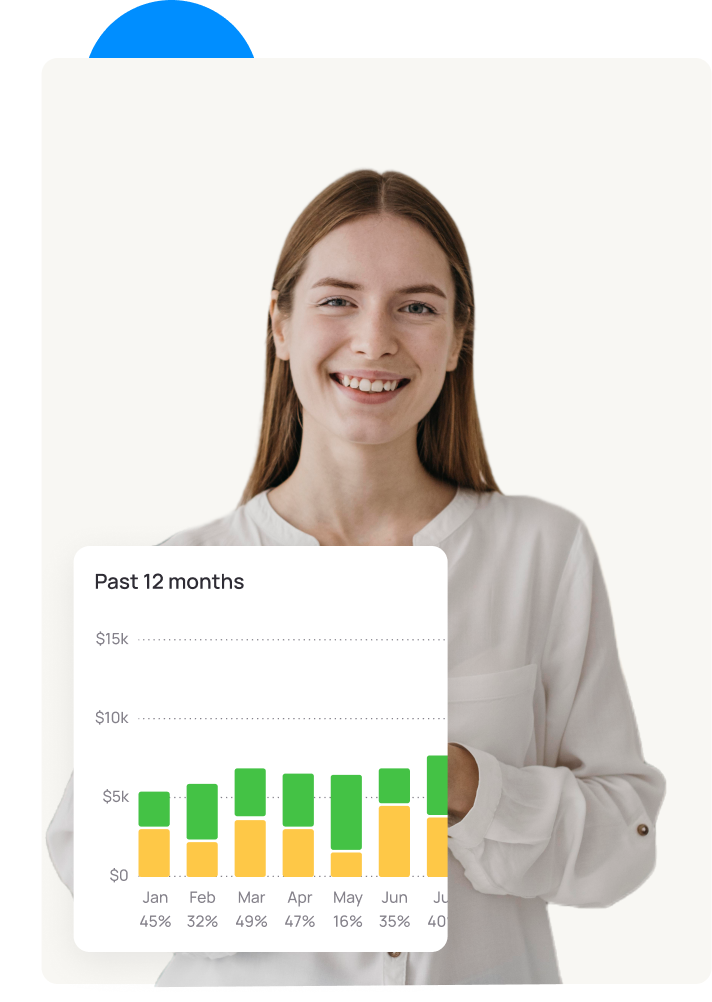
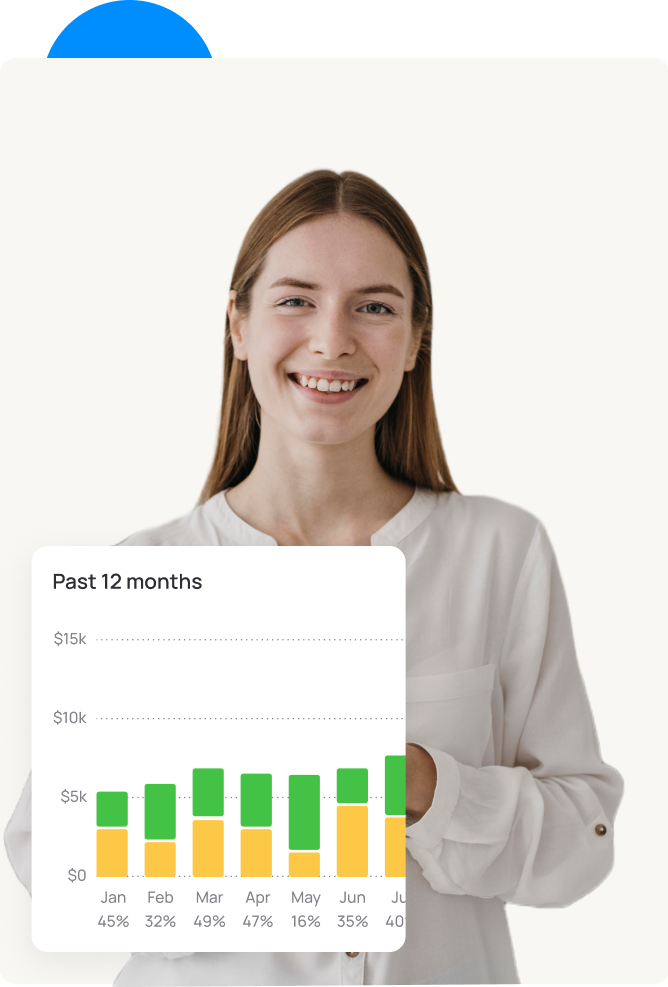
style: estiliza primeira metade

diff --git a/pages/index.html b/pages/index.html
@@ -57,7 +57,7 @@
 
         <section id="hero">
 
-            <div class="container-text">
+            <div class="container-text flex-center">
                 <div id="heading">
                     <span class="text-border">Data Analysis</span>
                 </div>
@@ -78,9 +78,12 @@
                 </div>
 
                 <div class="container-invite">
-                    <a href="#" class="btn">Get Started Free</a>
 
-                    <div class="advertising">
+                    <div class="advertising" id="started-free">
+                        <a href="#" class="btn">Get Started Free</a>
+                    </div>
+
+                    <div class="advertising" id="watch-demo">
                         <img src="../images/playIcon.svg" alt="">
                         <a href="#">Watch a Demo</a>
                     </div>
@@ -135,7 +138,7 @@
         </section>
 
         <section id="features">
-            <div class="introduction-feature">
+            <div class="introduction-feature flex-center">
                 <h2>Unique features of data analysis</h2>
                 <p>
                     Unveiling the Extraordinary Power: Delving 
@@ -214,7 +217,7 @@
             
         </section>
 
-        <section class="container" id="data-analytics">
+        <section class="flex-center" id="data-analytics">
 
             <div id="image-dataAnalytics">
 
@@ -223,48 +226,62 @@
                 <img id="image-dataAnalytics-desktop" class = "desktop" src="../images/woman12months-desktop.png" alt="">
             </div>
 
-            <h2>
-                Online Data Analytics for Business Professionals: Unleashing the Power of Insights
-            </h2>
+            <div class="flex-center" id="text-dataAnalytics">
 
-            <p>
-                Empowering Business Professionals with Actionable Insights through Online Data Analytics
-            </p>
+                <h2>
+                    Online Data Analytics for Business Professionals: Unleashing the Power of Insights
+                </h2>
 
-        </section>
+                <p>
+                    Empowering Business Professionals with Actionable Insights through Online Data Analytics
+                </p>
 
-        <section id="invite-client">
-
-            <div id="image-graphicInvite">
-                <img id="image-graphicInvite-mobile" src="../images/graphicInvite-mobile.png" alt="">
-                <img id="image-graphicInvite-desktop" src="../images/grap" alt="">
-            </div>
-
-            <h2>Discovering and Storing Essential Dates</h2>
-
-            <p>
-                Efficient Date Discovery and Storage System: Streamlining Essential Date Management
-            </p>
-
-            <div class="container-invite">
-                <a href="#" class="btn-alternative">Get Started</a>
-            </div>
-
-            <img src="../images/womanMRR.png" alt="">
-
-            <h2>Delivering Real-Time Date Solutions</h2>
-
-            <p>
-                Real-Time Date Solutions: Empowering Timely Decision-Making for Enhanced Efficiency and Success
-            </p>
-
-            <div class="container-invite">
-                <a href="#" class="btn-alternative">Get Started</a>
             </div>
 
         </section>
 
-        <section class="container" id="services-available">
+        <section class="container-inner"  id="invite-client">
+
+            <div id="invite-textFirst">
+
+                <div id="image-graphicInvite">
+                    <img id="image-graphicInvite-mobile" src="../images/graphicInvite-mobile.png" alt="">
+                    <img id="image-graphicInvite-desktop" src="../images/grap" alt="">
+                </div>
+
+                <h2>Discovering and Storing Essential Dates</h2>
+
+                <p>
+                    Efficient Date Discovery and Storage System: Streamlining Essential Date Management
+                </p>
+
+                <div class="container-invite">
+                    <a href="#" class="btn-alternative">Get Started</a>
+                </div>
+
+            </div>
+
+            <div id="invite-textSecond">
+                
+                <img src="../images/womanMRR.png" alt="">
+
+                <h2>Delivering Real-Time Date Solutions</h2>
+
+                <p>
+                    Real-Time Date Solutions: Empowering Timely Decision-Making for Enhanced Efficiency and Success
+                </p>
+
+                <div class="container-invite">
+                    <a href="#" class="btn-alternative">Get Started</a>
+                </div>
+
+            </div>
+
+
+
+        </section>
+
+        <section class="container-inner flex-center" id="services-available">
             
             <h2>Numerous data analysis solutions and services are available</h2>
 
@@ -369,7 +386,7 @@
 
         </section>
 
-        <section class="commentary-client">
+        <section class="commentary-client flex-center">
             <div id="image-commentary">
                 <img src="../images//womanVideo.png" alt="">
             </div>

diff --git a/css/layout.css b/css/layout.css
@@ -3,7 +3,7 @@ h1, h2, p {
     text-align: center;
 }
 
-h3, #features p, #data-analytics p, #data-analytics h2, #call-to-action h2, #call-to-action p, footer h2, footer p {
+h3, #topics p, #data-analytics p, #data-analytics h2, #call-to-action h2, #call-to-action p, footer h2, footer p {
     text-align: start;
 }
 
@@ -39,6 +39,14 @@ img {
 
 
 /* Containers e layout */
+
+.flex-center{
+    display: flex;
+    flex-direction: column;
+    justify-content: center;
+    align-items: center;
+}
+
 .headerInner {
     display: flex;
     flex-direction: row;
@@ -59,8 +67,8 @@ img {
     display: none;
 }
 
-.container {
-    padding: 0 1.25rem;
+.container-inner {
+    margin: 0 1.25rem;
 }
 
 /* Botões */
@@ -80,6 +88,19 @@ img {
     background-color: #fff;
     padding: 0.875rem 1.25rem;
     border-radius: 6.25rem;
+}
+
+.btn a{
+    padding: 0.875rem 1rem;
+
+}
+
+.advertising{
+    display: flex;
+    justify-content: center;
+    align-items: center;
+    border: 1px solid #ededed;
+    border-radius: 6.25rem
 }
 
 /* Cards */

diff --git a/css/hero.css b/css/hero.css
@@ -1,8 +1,7 @@
 /* Hero */
 #hero {
     background-image: url(../images/BackgroundHeroMobile.png);
-    background-size: 100vw;
-    background-position: bottom 50%;
+    background-position: 70% 6%;
     background-repeat: no-repeat;
 }
 
@@ -11,13 +10,6 @@
     color: var(--contrast-primary-color);
     border-radius: 6.25rem;
     padding: 0.375rem 0.75rem;
-}
-
-.container-text {
-    display: flex;
-    flex-direction: column;
-    align-items: center;
-    align-content: center;
 }
 
 #container-text-mobile {
@@ -33,6 +25,21 @@
     gap: 0.75rem;
     align-items: center;
     margin: 1rem 0 3.5rem 0;
+    
+}
+
+#started-free a, #watch-demo{
+    width: 10.0625rem;
+    height: 3.0625rem;
+}
+
+#watch-demo a{
+    color: var(--contrast-primary-color);
+    align-self: center;
+}
+
+#watch-demo{
+    gap: 0.25rem;
 }
 
 .container-visual {

diff --git a/css/data-analytics.css b/css/data-analytics.css
@@ -1,32 +1,21 @@
 /* Data analytics section */
-#data-analytics {
-    display: flex;
-    flex-direction: column;
-    align-items: center;
+
+#data-analytics{
+    margin: 3.5rem 1.5rem 1.5rem 1.5rem;
 }
 
-#invite-client,
-#invite-client #image-graphicInvite {
-    background-color: var(--contrast-primary-color);
-    border-radius: 1.25rem;
-    display: flex;
-    flex-direction: column;
-    justify-content: center;
+#image-dataAnalytics img{
+    margin-bottom: 0.75rem;
+    width: 20.9375rem;
+
+    align-self: center;
+}
+
+#text-dataAnalytics{
+    gap: 1rem;
 }
 
 #data-analytics p, #data-analytics h2 {
     text-align: start;
-}
-
-#invite-client p, #invite-client h2 {
-    color: #fff;
-}
-
-#invite-client a {
-    color: #000;
-}
-
-#invite-client img {
-    margin: 0 1rem;
 }
 

diff --git a/css/invite-client.css b/css/invite-client.css
@@ -1,0 +1,31 @@
+
+#invite-client{
+    padding: 2rem 1rem 3rem 1rem;
+}
+
+#invite-client {
+    background-color: var(--contrast-primary-color);
+    border-radius: 1.25rem;
+    display: flex;
+    flex-direction: column;
+    align-items: center;
+    justify-content: center;
+}
+
+#invite-client img{
+    align-self: center;
+    width: 18.9375rem;
+}
+
+#invite-client p, #invite-client h2 {
+    color: #fff;
+    text-align: start;
+}
+
+#invite-client a {
+    color: #000;
+}
+
+#invite-client img {
+    margin: 0 1rem;
+}

diff --git a/css/features.css b/css/features.css
@@ -1,6 +1,10 @@
+.introduction-feature{
+    gap: 1rem;
+}
+
 /* Topics */
 #topics {
-    margin: 2.5rem 1.25rem;
+    margin: 2.5rem 1.25rem 3.5rem 1.25rem;
 }
 
 .introduction-feature {
@@ -11,13 +15,14 @@
     margin-bottom: 1.5rem;
 }
 
+.topic-feature{
+    margin-bottom: 2rem;
+}
+
 .row-feature {
     display: flex;
     gap: 1rem;
     margin-bottom: 1rem;
 }
 
-#features p {
-    text-align: start;
-}
 

diff --git a/css/commentary-client.css b/css/commentary-client.css
@@ -1,8 +1,5 @@
 /* Commentary client */
 .commentary-client {
-    display: flex;
-    flex-direction: column;
-    align-items: center;
     margin: auto;
 }
 

diff --git a/css/services-available.css b/css/services-available.css
@@ -1,6 +1,8 @@
 /* Services */
 #services-available {
-    margin: 3.5rem 0;
+    margin: 3.5rem 1.25rem;
+
+    gap: 2rem;
 }
 
 .services-component {
